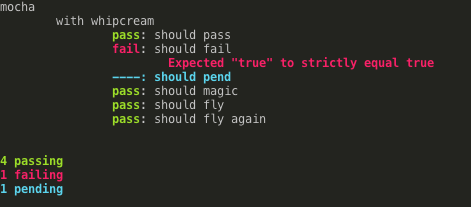
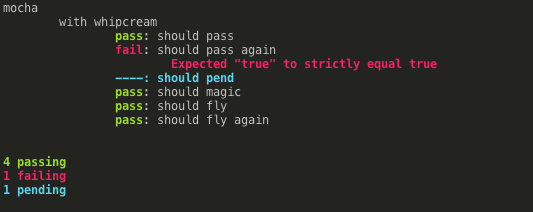
Replace image

Changed region(s): [[0.0892, 0.058, 0.9214, 0.6087], [0.0, 0.7246, 0.1486, 0.9565], [0.0, 0.0, 0.0892, 0.058]]

diff --git a/test/main.cpp b/test/main.cpp
@@ -24,7 +24,7 @@ int main() {
 				return expect(true).to->equal(true)->result();
 			});
 
-			it("should fail", [&]() {
+			it("should pass again", [&]() {
 				// Tell the compiler that we want this to be interpreted as a string
 				// and not as a const char*
 				return expect<std::string>("true").to->strict_equal(true)->result();
